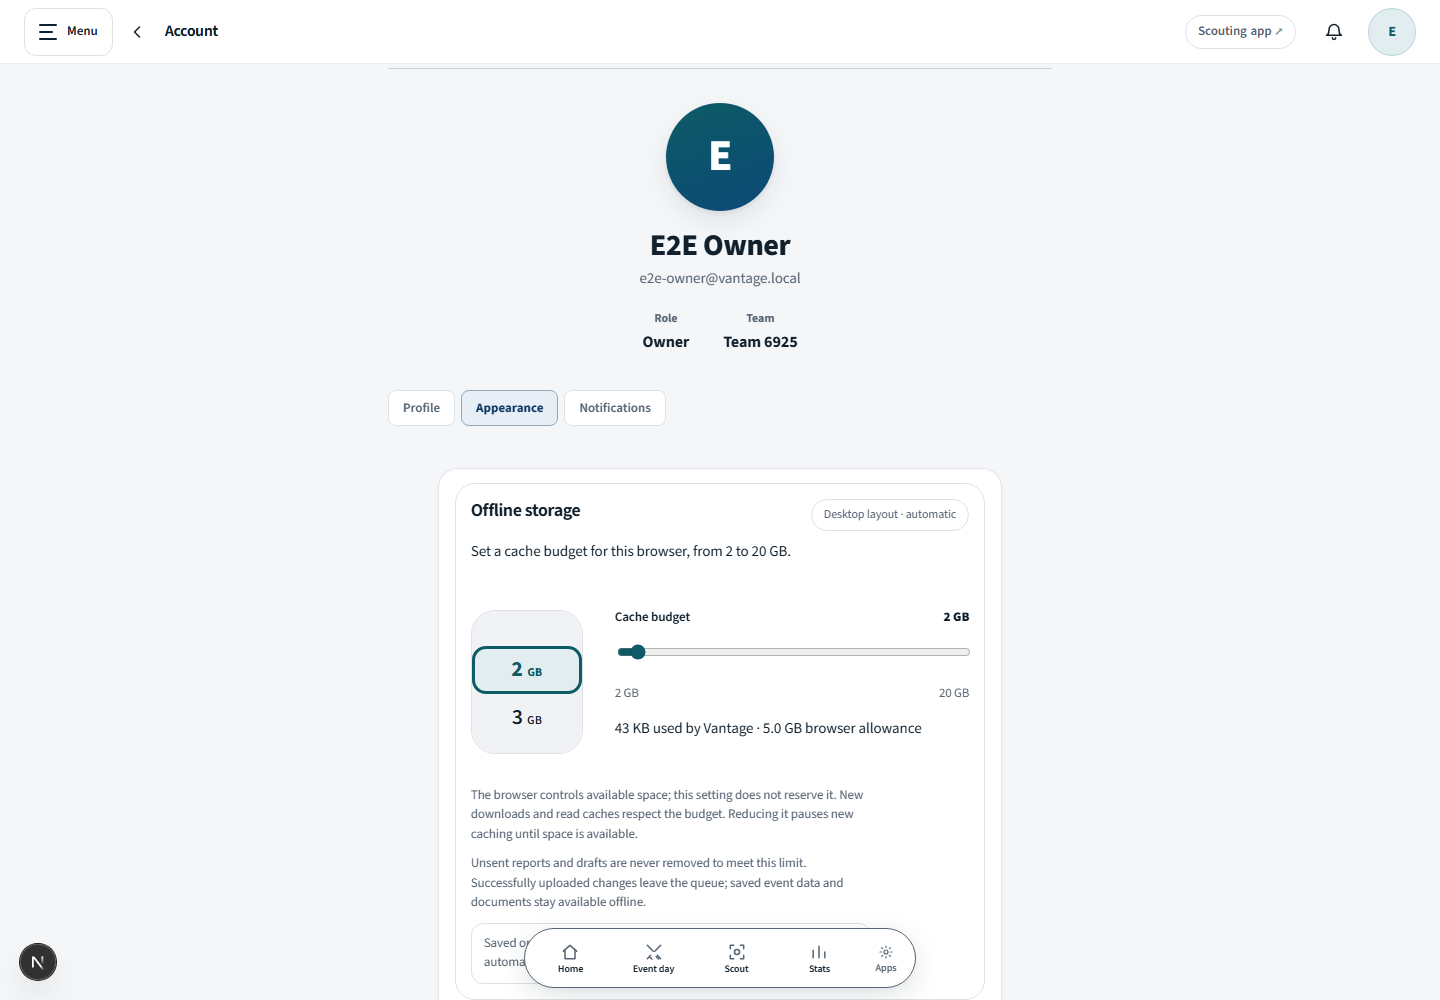
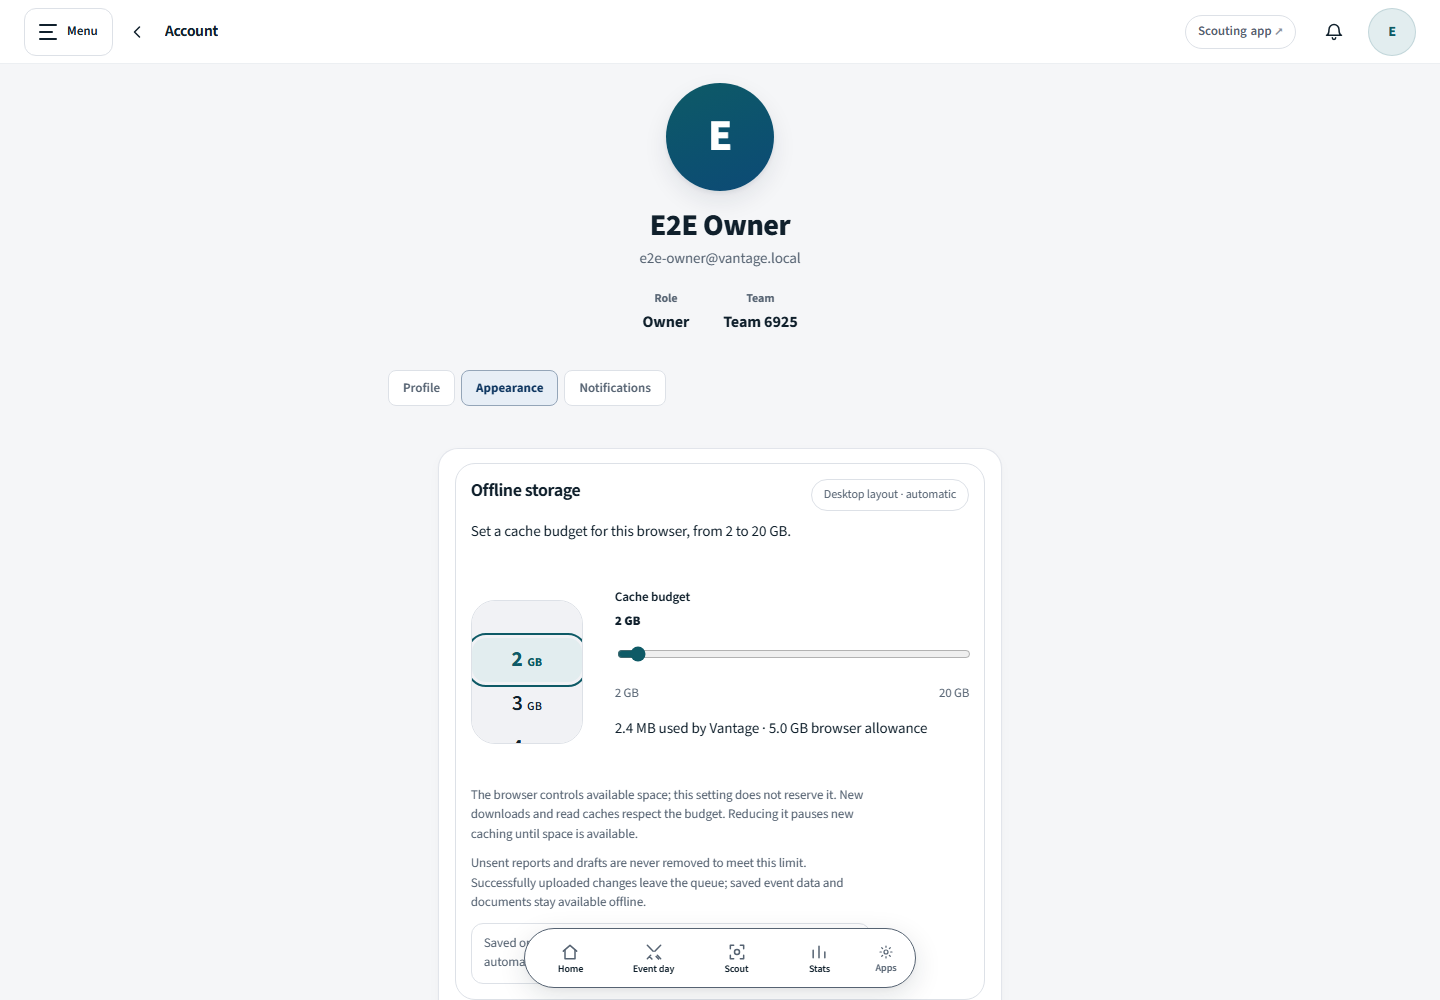
Align launch metadata and verify all three signup gates

diff --git a/apps/web/lib/marketing/seo.ts b/apps/web/lib/marketing/seo.ts
@@ -47,13 +47,13 @@ export function rootMarketingMetadata(): Metadata {
       template: "%s — Vantage",
     },
     description:
-      "Invite-only FRC software: scouting, Learn CAD, team chat, and practice. Google or an email code. Mentors invite exact emails.",
+      "An FRC team workspace for scouting, strategy, team coordination, robot development and business. Free to use, with optional personal AI connections.",
     manifest: "/manifest.webmanifest",
     alternates: { canonical: "/" },
     openGraph: {
       title: "Vantage — your FRC team, connected",
       description:
-        "Scout, learn CAD, talk with the team, and run practice. Invite-only — no public signup.",
+        "Scouting, strategy, team coordination, robot development and business in one connected FRC workspace.",
       url: SITE_URL,
       type: "website",
       siteName: "Vantage",
@@ -63,7 +63,7 @@ export function rootMarketingMetadata(): Metadata {
       card: "summary_large_image",
       title: "Vantage — your FRC team, connected",
       description:
-        "Invite-only FRC software: offline scouting, Learn CAD, team chat, and practice.",
+        "Your FRC team, connected: scouting, team work, robot development and business.",
       images: [OG_IMAGE.url],
     },
     robots: { index: true, follow: true },
@@ -96,7 +96,7 @@ export function organizationSoftwareJsonLd() {
         operatingSystem: "Web",
         url: SITE_URL,
         description:
-          "An FRC workspace for scouting, strategy, team coordination, robot development and business. Currently invite-only, with optional personal AI connections.",
+          "An FRC workspace for scouting, strategy, team coordination, robot development and business, with optional personal AI connections.",
         offers: {
           "@type": "Offer",
           price: "0",

diff --git a/tests/browser/waitlist-doors.spec.ts b/tests/browser/waitlist-doors.spec.ts
@@ -2,9 +2,8 @@ import { expect, test } from "@playwright/test";
 import { signInAs } from "./session";
 
 /**
- * Turning the waitlist off is two conditions that both have to hold, and
- * neither of them was visible anywhere in the product: you read the source to
- * learn there were two, then opened the hosting dashboard for the second.
+ * The scheduled date, production acceptance and operator switch must all pass.
+ * The administrator can see each condition without inspecting source code.
  *
  * These run as the platform-admin fixture. Nothing else can reach /admin —
  * which is the other half of what this checks.
@@ -23,13 +22,13 @@ test.describe("public sign-up status", () => {
     // One of the two states, never a blank or a guess.
     await expect(doors).toContainText(/Invite-only|Open to everyone/);
 
-    // Both conditions are listed, each marked done or not, so the outstanding
-    // one is readable without knowing there were two.
+    // All three conditions are visible and the date cannot be silently bypassed.
     const steps = doors.locator(".admin-signup-steps li");
-    await expect(steps).toHaveCount(2);
+    await expect(steps).toHaveCount(3);
+    await expect(steps.first()).toContainText("December 1");
     const open = (await doors.getAttribute("data-open")) === "yes";
     const doneCount = await doors.locator('.admin-signup-steps li[data-done="yes"]').count();
-    expect(open ? doneCount : doneCount < 2).toBeTruthy();
+    expect(open).toBe(doneCount === 3);
   });
 
   test("an owner who is not a platform admin cannot see any of it", async ({ context, page }) => {

diff --git a/apps/web/app/pricing/page.tsx b/apps/web/app/pricing/page.tsx
@@ -6,7 +6,7 @@ import { marketingPageMetadata } from "../../lib/marketing/seo";
 export const metadata: Metadata = marketingPageMetadata({
   title: "Cost — Vantage",
   description:
-    "Vantage is free for FRC teams. Connect personal Codex or use a personal or team AI provider key. External provider charges are separate. Access is invite-only during release verification.",
+    "Vantage is free for FRC teams. Connect personal Codex or use a personal or team AI provider key. External provider charges are separate.",
   path: "/pricing",
 });
 

diff --git a/apps/web/app/for-teams/page.tsx b/apps/web/app/for-teams/page.tsx
@@ -8,7 +8,7 @@ import "../marketing-showcase.css";
 export const metadata: Metadata = marketingPageMetadata({
   title: "For FRC teams — Vantage",
   description:
-    "How mentors, drive team, scouts, and business leads share one invite-only FRC app: scouting, CAD from a link, team chat, and team ops.",
+    "How mentors, drive team, scouts and business leads coordinate scouting, robot development, team work and business in Vantage.",
   path: "/for-teams",
 });
 

diff --git a/apps/web/components/marketing/product-demos.tsx b/apps/web/components/marketing/product-demos.tsx
@@ -403,7 +403,7 @@ export function TeamOpsPreview() {
           </li>
         </ul>
         <footer className="product-demo-footer">
-          <span>Waitlist + invite only</span>
+          <span>Account and team access</span>
           <b>Platform admin gated separately</b>
         </footer>
       </div>
